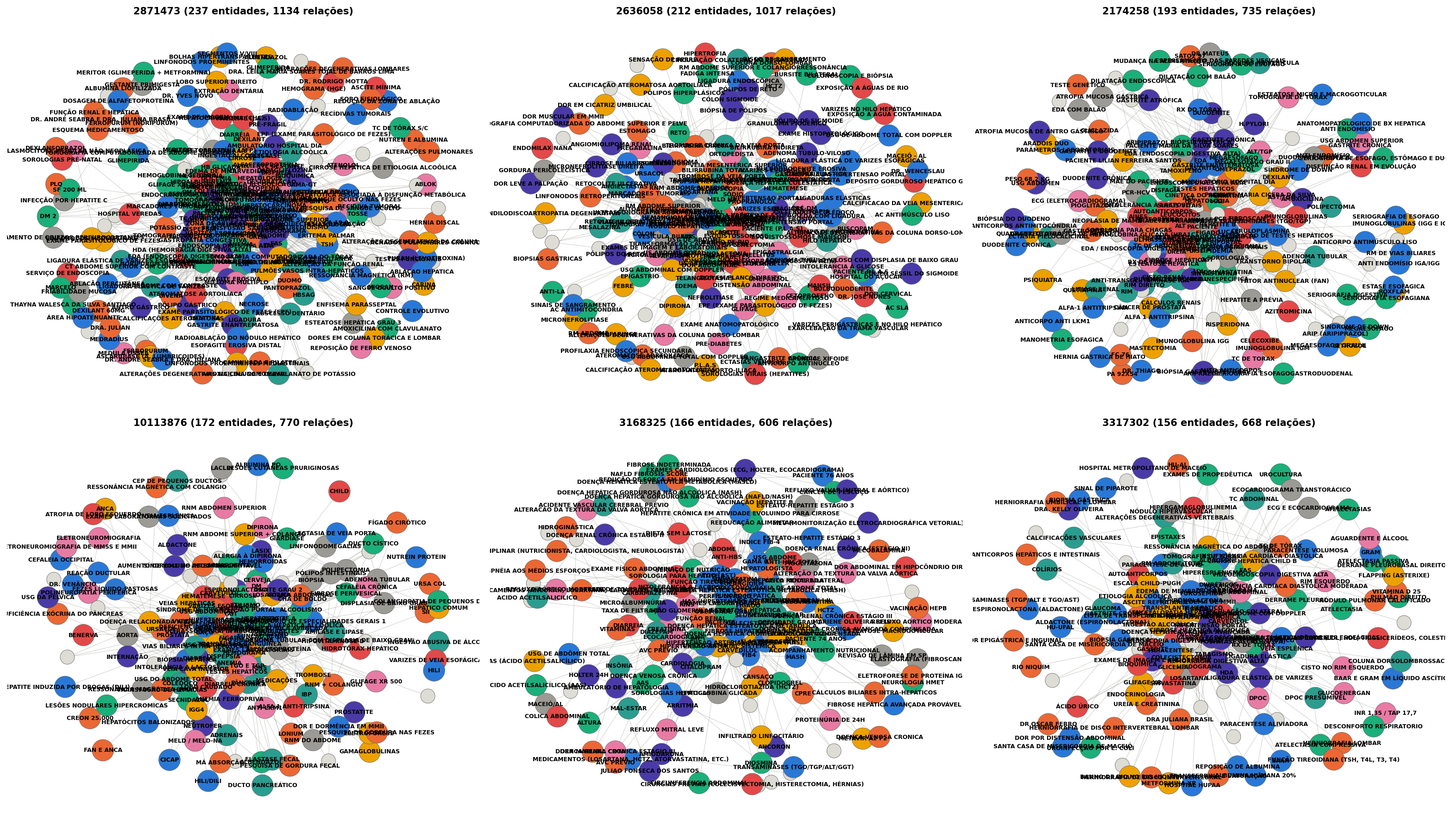
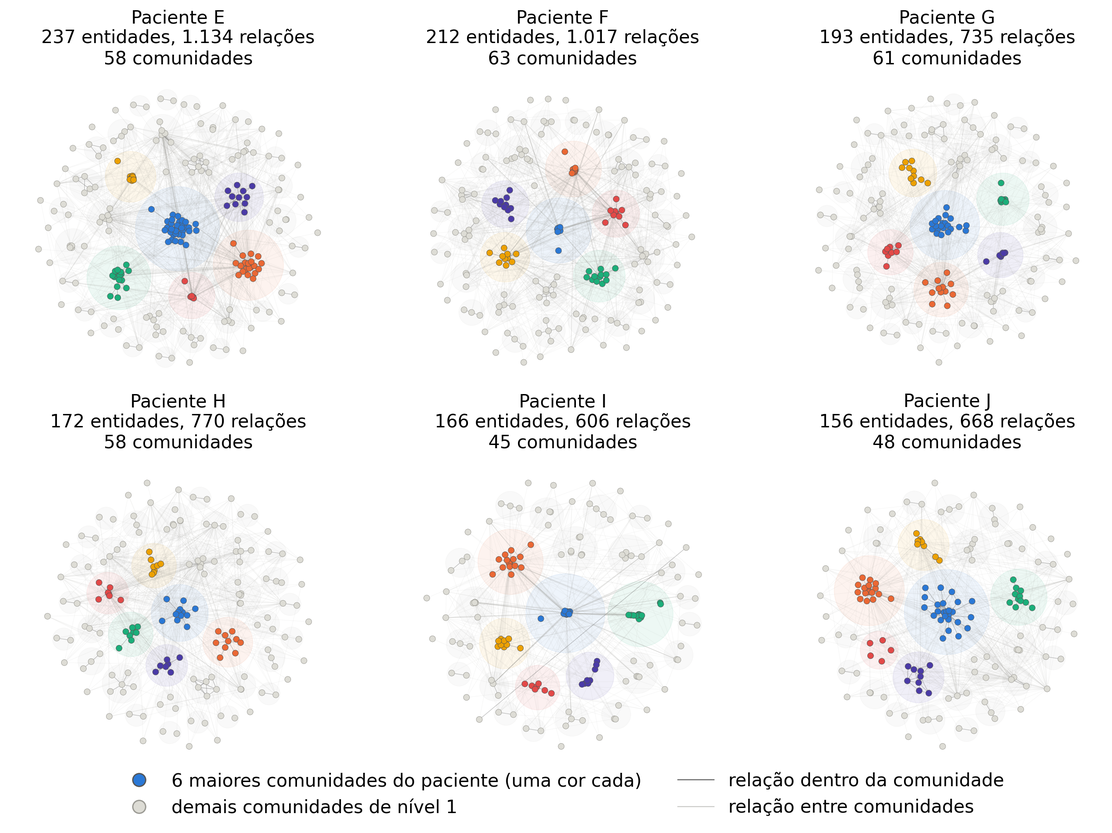
fix(tese): responde revisao dos capitulos 1, 4 e 5
- introducao: aplicacoes dos dados de prontuario logo apos a frase comentada e lacuna do GraphRAG
- secao 4.4.3: restaura e completa as hipoteses das duas investigacoes do drift
- secao 5.2: F1 por doenca nos dois niveis de comunidade
- secao 5.3: enuncia as hipoteses antes de cada tabela
- figura 5.7: redesenhada por comunidade, sem rotulos e com pacientes pseudonimizados (E a J)
- trabalhos futuros: outras formas de agrupamento alem do Leiden topologico

diff --git a/tesis/Cap05/Capitulo5.tex b/tesis/Cap05/Capitulo5.tex
@@ -68,12 +68,15 @@ O padrão mais relevante da Tabela~\ref{tab:res-metricas-gerais} é a assimetria
 
 \section{Desempenho por doença}\label{sec:res-por-doenca}
 
-A Figura~\ref{fig:res-f1-doenca} compara o F1 por doença entre S1 (\textit{basic}, referência sem uso estruturado do grafo), S3 (\textit{local}) e S7 (\textit{drift}), os três sistemas de nível 1. O padrão confirma, com ressalvas, a distinção entre doenças de marcador binário claro e doenças de inferência indireta. Em cirrose hepática e hipertensão portal -- doenças que dependem de inferência a partir de múltiplos achados dispersos no texto --, o ganho do \textit{drift} sobre o \textit{basic} é grande: 18,1 e 19,7 pontos de F1, respectivamente. Em esteatose hepática e hepatite C, cujo texto costuma registrar um exame ou laudo objetivo, o ganho é menor, por efeito-teto (o \textit{basic} já desempenha bem nessas classes): 5,4 e 9,0 pontos. Dois casos escapam ao padrão simples. A esquistossomose, apesar de também depender de inferência indireta, tem ganho modesto (5,0 pontos), semelhante ao das doenças de marcador direto. Já a hepatite B é o único caso em que o \textit{drift} não supera o \textit{basic}: o F1 é ligeiramente menor (0,851 contra 0,864), uma diferença pequena, mas que contraria a expectativa de ganho uniforme do \textit{drift} sobre doenças com marcador objetivo. A hemorragia digestiva alta (HDA) permanece a exceção mais clara ao padrão geral: apesar de o termo literal estar presente na maior parte dos prontuários positivos, o \textit{drift} (F1 = 0,457) não supera o \textit{local} (F1 = 0,485) nessa classe, consistente com o mecanismo de confusão anatômica investigado e estatisticamente confirmado na Seção~\ref{sec:res-investigacao-erro}.
+A Figura~\ref{fig:res-f1-doenca} compara o F1 por doença entre os modos \textit{basic} (referência sem uso estruturado do grafo), \textit{local} e \textit{drift} nos dois níveis de comunidade avaliados: S1, S3 e S7, no nível 1 (painel a), e S2, S4 e S8, no nível 2 (painel b). O padrão confirma, com ressalvas, a distinção entre doenças de marcador binário claro e doenças de inferência indireta. Em cirrose hepática e hipertensão portal, doenças que dependem de inferência a partir de múltiplos achados dispersos no texto, o ganho do \textit{drift} sobre o \textit{basic} é o maior nos dois níveis: 18,1 e 19,7 pontos de F1 no nível 1, e 23,1 e 22,1 pontos no nível 2. Em esteatose hepática e hepatite C, cujo texto costuma registrar um exame ou laudo objetivo, o ganho é menor, por efeito-teto (o \textit{basic} já desempenha bem nessas classes): 5,4 e 9,0 pontos no nível 1, e 9,6 e 12,7 no nível 2. A esquistossomose, apesar de também depender de inferência indireta, tem ganho modesto nos dois níveis (5,0 e 8,6 pontos), semelhante ao das doenças de marcador direto.
+
+As duas exceções observadas no nível 1 não se repetem no nível 2. Na hepatite B, o \textit{drift} fica ligeiramente abaixo do \textit{basic} no nível 1 (0,851 contra 0,864), mas o supera no nível 2 (0,927 contra 0,857). Na hemorragia digestiva alta (HDA), o \textit{drift} não supera o \textit{local} no nível 1 (0,457 contra 0,485) e, no nível 2, é o melhor dos três modos, mas com F1 ainda baixo (0,486). Em ambos os níveis, a HDA tem o pior desempenho entre as sete doenças avaliáveis, apesar de o termo literal estar presente na maior parte dos prontuários positivos, o que é consistente com o mecanismo de confusão anatômica investigado e estatisticamente confirmado na Seção~\ref{sec:res-investigacao-erro}. No nível 2, portanto, o \textit{drift} obtém o maior F1 em todas as doenças, e a vantagem continua concentrada nas de evidência indireta.
 
 \begin{figure}[!htbp]
 \centering
 % Barra proporcional dentro de cada célula, como no painel de acurácia de
 % OA-RAG (arXiv:2610.36335); setas de ganho/perda (\gain/\loss) do mesmo artigo.
+\resizebox{\textwidth}{!}{%
 \begin{tikzpicture}[x=1cm, y=1cm, font=\footnotesize]
 \def\X{3.95}\def\CW{3.05}\def\GX{0.22}\def\RH{0.44}\def\BH{0.27}
 \foreach \k/\tit/\c in {0/{S1 (\textit{basic})}/modoBasic, 1/{S3 (\textit{local})}/modoLocal, 2/{S7 (\textit{drift})}/modoDrift}{
@@ -102,8 +105,42 @@ A Figura~\ref{fig:res-f1-doenca} compara o F1 por doença entre S1 (\textit{basi
   \node[anchor=west, inner sep=0pt, font=\scriptsize] at ({\X+3*(\CW+\GX)+0.10},\y) {\delta};
 }
 \draw[black!45, line width=0.4pt] (-0.15,{-0.08-7*\RH}) -- ({\X+3*(\CW+\GX)+1.45},{-0.08-7*\RH});
-\end{tikzpicture}
-\caption[F1 por doença, três sistemas de nível 1]{F1 por doença nos sistemas de nível 1; $\Delta$ é a diferença, em pontos de F1, entre S7 (\textit{drift}) e S1 (\textit{basic}).}
+\end{tikzpicture}}\\[2pt]
+{\footnotesize (a) Nível 1}
+\\[8pt]
+\resizebox{\textwidth}{!}{%
+\begin{tikzpicture}[x=1cm, y=1cm, font=\footnotesize]
+\def\X{3.95}\def\CW{3.05}\def\GX{0.22}\def\RH{0.44}\def\BH{0.27}
+\foreach \k/\tit/\c in {0/{S2 (\textit{basic})}/modoBasic, 1/{S4 (\textit{local})}/modoLocal, 2/{S8 (\textit{drift})}/modoDrift}{
+  \node[font=\footnotesize\bfseries, anchor=base, inner sep=1pt] at ({\X+\k*(\CW+\GX)+\CW/2},0.08) {\chip{\c}\tit};
+}
+\node[font=\footnotesize\bfseries, anchor=base, inner sep=1pt] at ({\X+3*(\CW+\GX)+0.62},0.08) {$\Delta$};
+\draw[black!45, line width=0.4pt] (-0.15,-0.08) -- ({\X+3*(\CW+\GX)+1.45},-0.08);
+\foreach \i/\nome/\a/\b/\d/\best/\delta in {
+    1/Cirrose hepática/0.571/0.626/0.802/2/{\gain{23,1}},
+    2/Esquistossomose/0.679/0.702/0.765/2/{\gain{8,6}},
+    3/Hepatite C/0.740/0.806/0.867/2/{\gain{12,7}},
+    4/Hepatite B/0.857/0.874/0.927/2/{\gain{7,0}},
+    5/Esteatose hepática/0.854/0.872/0.950/2/{\gain{9,6}},
+    6/Hipertensão portal/0.702/0.679/0.923/2/{\gain{22,1}},
+    7/{Hemorragia digestiva alta}/0.444/0.386/0.486/2/{\gain{4,2}}}{
+  \pgfmathsetmacro{\y}{-0.08-\i*\RH+\RH/2}
+  \node[anchor=east, inner sep=0pt] at ({\X-0.10},\y) {\nome};
+  \foreach \k/\v/\c in {0/\a/modoBasic, 1/\b/modoLocal, 2/\d/modoDrift}{
+    \pgfmathsetmacro{\x}{\X+\k*(\CW+\GX)}
+    \fill[black!5] (\x,{\y+\BH/2}) rectangle ({\x+\CW},{\y-\BH/2});
+    \path[fill=\c, draw=white, line width=0.45pt] (\x,{\y+\BH/2}) rectangle ({\x+\CW*\v},{\y-\BH/2});
+    \ifnum\k=\best\draw[black!75, line width=0.7pt] (\x,{\y+\BH/2}) rectangle ({\x+\CW*\v},{\y-\BH/2});\fi
+    \node[anchor=east, inner sep=2pt, text=white, font=\scriptsize] at ({\x+\CW*\v},\y)
+      {\ifnum\k=\best\bfseries\fi\pgfmathprintnumber[fixed, precision=3, fixed zerofill, use comma]{\v}};
+  }
+  \node[anchor=west, inner sep=0pt, font=\scriptsize] at ({\X+3*(\CW+\GX)+0.10},\y) {\delta};
+}
+\draw[black!45, line width=0.4pt] (-0.15,{-0.08-7*\RH}) -- ({\X+3*(\CW+\GX)+1.45},{-0.08-7*\RH});
+\end{tikzpicture}}\\[2pt]
+{\footnotesize (b) Nível 2}
+
+\caption[F1 por doença, por modo de busca e nível de comunidade]{F1 por doença nos níveis de comunidade 1 (a) e 2 (b); $\Delta$ é a diferença, em pontos de F1, entre o \textit{drift} e o \textit{basic} do mesmo nível.}
 \label{fig:res-f1-doenca}
 \par\smallskip{\footnotesize Fonte: elaborado pelo autor a partir de \texttt{metricas\_parcial\_sem\_global.csv}.}
 \end{figure}
@@ -128,11 +165,11 @@ As matrizes de confusão por doença (Figuras~\ref{fig:res-confusao-s7} e~\ref{f
 
 \section{Investigação do comportamento do modo \textit{drift}}\label{sec:res-investigacao}
 
-Esta seção relata o resultado de duas investigações dirigidas ao modo \textit{drift}, conduzidas \textit{a posteriori} sobre pares formados por prontuário e doença, com hipóteses comparadas pelo teste U de Mann-Whitney \citep{mann_whitney1947}, para variáveis quantitativas, e pelo teste qui-quadrado de Pearson \citep{pearson1900}, para proporções: por que o \textit{drift} acerta em casos que \textit{basic}/\textit{local} erram (Seção~\ref{sec:res-investigacao-acerto}) e por que o \textit{drift} erra em casos que \textit{basic}/\textit{local} acertam (Seção~\ref{sec:res-investigacao-erro}).
+Esta seção relata o resultado de duas investigações dirigidas ao modo \textit{drift}, conduzidas \textit{a posteriori} sobre pares formados por prontuário e doença, com as hipóteses, os grupos e os testes descritos na Seção~\ref{sec:met-hipoteses}: por que o \textit{drift} acerta em casos que \textit{basic}/\textit{local} erram (Seção~\ref{sec:res-investigacao-acerto}) e por que o \textit{drift} erra em casos que \textit{basic}/\textit{local} acertam (Seção~\ref{sec:res-investigacao-erro}).
 
 \subsection{Por que o \textit{drift} acerta onde os demais erram}\label{sec:res-investigacao-acerto}
 
-O grupo A reúne 206 pares paciente/doença em que ao menos um dos sistemas \textit{drift} (S7 ou S8) identifica corretamente uma doença presente e mais da metade dos sistemas \textit{basic}/\textit{local} (S1 a S4) não a identifica; o grupo B, de 593 pares, funciona como controle. A Tabela~\ref{tab:res-h1-h4-acerto} resume os quatro testes.
+O grupo A reúne 206 pares paciente/doença em que ao menos um dos sistemas \textit{drift} (S7 ou S8) identifica corretamente uma doença presente e mais da metade dos sistemas \textit{basic}/\textit{local} (S1 a S4) não a identifica; o grupo B, de 593 pares, reúne os demais casos com doença presente e funciona como controle. As quatro hipóteses testadas são que os prontuários do grupo A são mais longos (H1), mencionam menos o termo literal da doença (H2), registram mais atendimentos (H3) e têm com mais frequência a entidade canônica da doença ausente do índice (H4). A Tabela~\ref{tab:res-h1-h4-acerto} resume os quatro testes.
 
 \begin{table}[!htbp]
 \centering
@@ -155,7 +192,7 @@ Os prontuários do grupo A são significativamente mais longos (H1) e mencionam 
 
 \subsection{Por que o \textit{drift} erra onde os demais acertam}\label{sec:res-investigacao-erro}
 
-O grupo A desta investigação reúne 291 pares paciente/doença em que a doença está ausente segundo o rótulo de referência, ao menos um dos sistemas \textit{drift} (S7 ou S8) prediz presença (falso positivo) e mais da metade dos sistemas \textit{basic}/\textit{local} (S1 a S4) acerta a ausência; o grupo B, de 3.144 pares, é o controle (doença ausente e \textit{drift} também acerta). A Tabela~\ref{tab:res-h1-h4-erro} resume os testes.
+O grupo A desta investigação reúne 291 pares paciente/doença em que a doença está ausente segundo o rótulo de referência, ao menos um dos sistemas \textit{drift} (S7 ou S8) prediz presença (falso positivo) e mais da metade dos sistemas \textit{basic}/\textit{local} (S1 a S4) acerta a ausência; o grupo B, de 3.144 pares, é o controle (doença ausente e \textit{drift} também acerta). As quatro hipóteses testadas são que o \textit{drift} justifica o falso positivo com linguagem de risco ou de hipótese (H1), que os prontuários do grupo A são mais longos (H2), que os falsos positivos de HDA contêm mais termos de sangramento digestivo baixo (H3) e que a evidência citada pelo \textit{drift} não aparece literalmente no texto do paciente (H4). A Tabela~\ref{tab:res-h1-h4-erro} resume os testes.
 
 \begin{table}[!htbp]
 \centering
@@ -188,7 +225,7 @@ A Figura~\ref{fig:res-acerto-erro-tamanho} ilustra esse padrão sobre todos os p
 
 A hipótese H3, específica de HDA, é a única das duas investigações a isolar estatisticamente o mecanismo da terceira categoria de doença discutida na Seção~\ref{sec:res-por-doenca}: termos de sangramento baixo (hemorroida, fissura anal, hematoquezia) aparecem em quase o triplo da proporção dos falsos positivos de HDA em comparação ao controle (8,7\% contra 2,8\%, $p=0,040$). Isso confirma estatisticamente, pela primeira vez, a hipótese qualitativa de confusão anatômica entre sangramento alto e baixo levantada durante a análise de erros (Seção~\ref{sec:met-qualitativa}) e que fundamentou o bloco do \textit{prompt} de extração dedicado a essa distinção (Seção~\ref{sec:met-prompt}).
 
-As hipóteses H1 e H4 têm suporte qualitativo, mas proporção abaixo do limiar adotado para considerá-las confirmadas (13,4\% e 13,8\%, respectivamente). Ainda assim, os casos individuais que as motivaram permanecem informativos: no paciente B, por exemplo, o texto afirma explicitamente ``hipertensão portal não cirrótica'', e o \textit{drift} lista cirrose mesmo com a negação textual explícita; no paciente C, o sistema confunde o diagnóstico de um familiar (tio com cirrose, mencionado no histórico familiar) com o do próprio paciente, e também confunde ``varizes em membros inferiores'' (varizes de perna) com varizes esofágicas, pela recorrência da palavra ``varizes'' fora do território anatômico correto.
+As hipóteses H1 e H4 têm suporte qualitativo, mas proporção abaixo do limiar de 15\% adotado para considerá-las confirmadas (13,4\% e 13,8\%, respectivamente; Seção~\ref{sec:met-hipoteses}). Ainda assim, os casos individuais que as motivaram permanecem informativos: no paciente B, por exemplo, o texto afirma explicitamente ``hipertensão portal não cirrótica'', e o \textit{drift} lista cirrose mesmo com a negação textual explícita; no paciente C, o sistema confunde o diagnóstico de um familiar (tio com cirrose, mencionado no histórico familiar) com o do próprio paciente, e também confunde ``varizes em membros inferiores'' (varizes de perna) com varizes esofágicas, pela recorrência da palavra ``varizes'' fora do território anatômico correto.
 
 O Quadro~\ref{quadro:negacao-ignorada} reproduz o trecho relevante do paciente B lado a lado com a resposta do \textit{drift}, e o Quadro~\ref{quadro:alucinacao} faz o mesmo para um caso de hepatite B (paciente D, Seção~\ref{sec:res-panorama}) em que o sistema cita um resultado de exame que não existe em nenhuma parte do texto do prontuário.
 
@@ -206,7 +243,7 @@ O Quadro~\ref{quadro:negacao-ignorada} reproduz o trecho relevante do paciente B
 
 \section{Análise qualitativa do grafo de conhecimento}\label{sec:res-grafos}
 
-Para ilustrar o mecanismo topológico por trás de parte dos erros do \textit{drift}, a Figura~\ref{fig:res-subgrafo-paciente-a} mostra o subgrafo do paciente A, destacando as comunidades de nível 1 às quais suas entidades pertencem. O caso evidencia que entidades do mesmo paciente podem ser alocadas em comunidades distintas quando o agrupamento de Leiden é puramente topológico (Seção~\ref{sec:met-grafo}): uma entidade sinônima da doença-alvo, criada a partir de uma menção textual diferente da forma canônica, pode cair em uma comunidade diferente daquela que contém a entidade canônica correspondente, mesmo referindo-se ao mesmo paciente e à mesma condição clínica.
+Para ilustrar o mecanismo topológico por trás de parte dos erros do \textit{drift}, a Figura~\ref{fig:res-subgrafo-paciente-a} mostra o subgrafo do paciente A, destacando as comunidades de nível 1 às quais suas entidades pertencem. O caso evidencia que entidades do mesmo paciente podem ser alocadas em comunidades distintas quando o agrupamento de Leiden é puramente topológico (Seção~\ref{sec:met-grafo}): uma entidade sinônima da doença-alvo, criada a partir de uma menção textual diferente da forma canônica, pode cair em uma comunidade diferente daquela que contém a entidade canônica correspondente, mesmo referindo-se ao mesmo paciente e à mesma condição clínica. Formas de agrupamento que considerem também o conteúdo semântico das entidades ou a sua pertença a um paciente, propostas como trabalho futuro na Seção~\ref{sec:conc-futuros}, poderiam reduzir essa dispersão.
 
 \begin{figure}[!htbp]
 \centering
@@ -216,14 +253,14 @@ Para ilustrar o mecanismo topológico por trás de parte dos erros do \textit{dr
 \par\smallskip{\footnotesize Fonte: elaborado pelo autor, com leiaute calculado pela biblioteca NetworkX.}
 \end{figure}
 
-A Figura~\ref{fig:res-maiores-grafos} generaliza a observação, comparando os seis maiores subgrafos entre os 537 prontuários da amostra, e a Figura~\ref{fig:res-estrutura-agregada} resume estatisticamente a estrutura dos subgrafos de todos os pacientes com dado disponível no índice (536 de 537). O número de entidades e o número de relações por prontuário são fortemente correlacionados ($r=0,959$), com mediana de 38 entidades e 81 relações por paciente, e cada paciente tem suas entidades distribuídas, em média, por comunidades que correspondem a 55\% do número de entidades -- ou seja, a fragmentação entre comunidades observada no caso do paciente A não é um evento isolado, mas uma característica estrutural recorrente do índice. Os resumos das dez comunidades de nível 1 com maior número de relações, que ilustram o conteúdo efetivamente consultado pelos modos \textit{global} e \textit{drift}, são reproduzidos no Apêndice~\ref{ap:comunidades}.
+A Figura~\ref{fig:res-maiores-grafos} generaliza a observação, comparando os seis maiores subgrafos entre os 537 prontuários da amostra, nos quais as entidades de um mesmo paciente se distribuem por 45 a 63 comunidades distintas, e a Figura~\ref{fig:res-estrutura-agregada} resume estatisticamente a estrutura dos subgrafos de todos os pacientes com dado disponível no índice (536 de 537). O número de entidades e o número de relações por prontuário são fortemente correlacionados ($r=0,959$), com mediana de 38 entidades e 81 relações por paciente, e cada paciente tem suas entidades distribuídas, em média, por comunidades que correspondem a 55\% do número de entidades -- ou seja, a fragmentação entre comunidades observada no caso do paciente A não é um evento isolado, mas uma característica estrutural recorrente do índice. Os resumos das dez comunidades de nível 1 com maior número de relações, que ilustram o conteúdo efetivamente consultado pelos modos \textit{global} e \textit{drift}, são reproduzidos no Apêndice~\ref{ap:comunidades}.
 
 A literatura recente aponta duas causas convergentes para esse quadro, uma em cada etapa da indexação. Na extração, \citet{ye2026} observaram que \textit{prompts} genéricos aplicados a prontuários multiplicam as entidades, ao tratar cada parâmetro laboratorial como entidade independente, e mitigaram o problema exigindo uma única entidade de paciente por registro, à qual se vinculam diagnósticos, medicamentos e exames, princípio que atacaria diretamente a dispersão observada aqui. No agrupamento, \citet{hossain2026} demonstram que, em grafos de conhecimento esparsos, a partição de Leiden não é reprodutível e tende a produzir comunidades de tamanho muito desigual, como as da Tabela~\ref{tab:met-niveis}. Como os resumos de comunidade são o material percorrido pelos modos \textit{global} e \textit{drift}, a granularidade do grafo, definida já na extração de entidades, condiciona diretamente as comunidades formadas pelo Leiden e, por consequência, o contexto disponível a esses modos de busca.
 
 \begin{figure}[!htbp]
 \centering
 \includegraphics[width=\textwidth]{Cap05/figuras/comparacao_maiores_grafos.png}
-\caption[Comparação dos seis maiores subgrafos da amostra]{Comparação dos seis maiores subgrafos (por número de entidades) entre os 537 prontuários da amostra.}
+\caption[Comparação dos seis maiores subgrafos da amostra]{Os seis maiores subgrafos da amostra, em número de entidades (pacientes E a J), com as entidades agrupadas por comunidade de nível 1; as seis maiores comunidades de cada paciente aparecem em cores, e as demais, em cinza.}
 \label{fig:res-maiores-grafos}
 \par\smallskip{\footnotesize Fonte: elaborado pelo autor com as bibliotecas NetworkX e matplotlib.}
 \end{figure}

diff --git a/tesis/Cap04/Capitulo4.tex b/tesis/Cap04/Capitulo4.tex
@@ -178,7 +178,7 @@ A execução local exigiu ajustes na estratégia de paralelização das consulta
 
 \section{Avaliação}\label{sec:met-avaliacao}
 
-A resposta de cada consulta foi convertida em um conjunto de doenças previstas e comparada aos rótulos de referência, etapa representada no painel 4 da Figura~\ref{fig:met-visao-geral}. Esta seção descreve a extração da resposta, as métricas de classificação e a análise qualitativa de erros e do grafo.
+A resposta de cada consulta foi convertida em um conjunto de doenças previstas e comparada aos rótulos de referência, etapa representada no painel 4 da Figura~\ref{fig:met-visao-geral}. Esta seção descreve a extração da resposta, as métricas de classificação, as hipóteses formuladas sobre o modo \textit{drift} e a análise qualitativa de erros e do grafo.
 
 \subsection{Extração da Resposta}\label{sec:met-parser}
 
@@ -213,6 +213,28 @@ A acurácia por rótulo, definida na Equação~\eqref{eq:ar}, considera cada com
 \mathrm{AR} = \frac{1}{N\,|C|}\sum_{i=1}^{N}\sum_{c \in C} \mathbf{1}\left[\hat{y}_{ic} = y_{ic}\right]
 \label{eq:ar}
 \end{equation}
+\subsection{Hipóteses sobre o Modo \texorpdfstring{\textit{Drift}}{Drift}}\label{sec:met-hipoteses}
+
+A comparação entre os sistemas revelou um padrão sistemático no comportamento do modo \textit{drift}, relatado no Capítulo~\ref{cap:resultados}, que motivou duas investigações dedicadas ao mecanismo subjacente. Trata-se de análises conduzidas \textit{a posteriori}, sobre pares formados por prontuário e doença, cujo desenho se descreve aqui. Em ambas, considera-se que o \textit{drift} acerta, ou erra, quando ao menos um dos sistemas S7 e S8 o faz, e que a maioria dos demais acerta, ou erra, quando mais da metade dos sistemas S1 a S4 o faz.
+
+A primeira investigação examina por que o \textit{drift} acerta onde os demais erram. O grupo A reúne os pares com doença presente nos rótulos de referência em que o \textit{drift} a identifica e a maioria dos sistemas \textit{basic} e \textit{local} não a identifica; o grupo B reúne os demais pares com doença presente e funciona como controle. Foram formuladas quatro hipóteses:
+\begin{description}
+    \item[H1:] os prontuários do grupo A são mais longos, em número de caracteres, que os do grupo B;
+    \item[H2:] o termo literal da doença aparece em menor proporção no texto dos prontuários do grupo A, indicando evidência mais indireta;
+    \item[H3:] os prontuários do grupo A registram mais atendimentos, de modo que a informação relevante fica mais diluída no histórico;
+    \item[H4:] a entidade canônica da doença deixou de ser extraída na indexação, para o paciente correspondente, em maior proporção no grupo A.
+\end{description}
+
+A segunda investigação examina o caso inverso: por que o \textit{drift} erra onde os demais acertam. O grupo A reúne os pares com doença ausente nos rótulos de referência em que o \textit{drift} prediz presença (falso positivo) e a maioria dos sistemas \textit{basic} e \textit{local} acerta a ausência; o grupo B reúne os pares com doença ausente em que o \textit{drift} também acerta. Foram formuladas outras quatro hipóteses:
+\begin{description}
+    \item[H1:] nos falsos positivos do grupo A, o \textit{drift} justifica a doença com linguagem de risco ou de hipótese, como ``risco'', ``possível'' e ``sugestivo'', e não com um achado confirmado;
+    \item[H2:] os prontuários do grupo A são mais longos, em número de caracteres, que os do grupo B;
+    \item[H3:] nos falsos positivos de HDA, termos de sangramento digestivo baixo, como ``hemorroida'', ``fissura anal'' e ``hematoquezia'', aparecem em maior proporção que no grupo B;
+    \item[H4:] o trecho que o \textit{drift} cita como evidência da doença não aparece literalmente no texto do próprio paciente, indício de alucinação ou de contaminação por informação de outros prontuários.
+\end{description}
+
+A escolha dos testes segue a natureza de cada variável. Comprimento do texto e número de atendimentos são variáveis quantitativas sem pressuposto de normalidade, comparadas entre os grupos pelo teste U de Mann-Whitney \citep{mann_whitney1947}, não paramétrico; a presença do termo literal, a ausência da entidade canônica e a presença de termos de sangramento baixo são variáveis binárias, comparadas pelo teste qui-quadrado de Pearson \citep{pearson1900}. Os testes foram implementados com a biblioteca SciPy, com nível de significância de 5\%. As hipóteses H1 e H4 da segunda investigação não têm grupo de comparação, pois no grupo B o \textit{drift} não menciona a doença; foram avaliadas pela proporção de casos do grupo A que apresentam o padrão, considerando-se relevante uma proporção superior a 15\%. A hipótese H4 da primeira investigação originou-se da análise do subgrafo de um paciente específico, descrita na seção seguinte, e foi submetida ao teste para verificar se o mecanismo observado nesse caso se generaliza para a amostra.
+
 \subsection{Análise Qualitativa de Erros e do Grafo}\label{sec:met-qualitativa}
 
 Como apoio à investigação qualitativa dos erros, foram gerados subgrafos de entidades e relações por paciente, desenhados com as bibliotecas NetworkX e matplotlib em leiaute de força dirigida e coloridos por comunidade.

diff --git a/tesis/Cap01/Capitulo1.tex b/tesis/Cap01/Capitulo1.tex
@@ -18,7 +18,7 @@ O diagnóstico e acompanhamento de pacientes hepatopatas dependem fortemente de 
 
 O Processamento de Linguagem Natural (PLN) tem sido amplamente explorado para extração de informações médicas. Revisões recentes apontam avanços significativos no uso de PLN em gastroenterologia e hepatologia, incluindo técnicas baseadas em grandes modelos de linguagem (LLMs), mas ainda existem desafios relacionados a abreviações, terminologia especializada e evolução temporal dos prontuários \citep{stammers2025,shahab2024}. Ferramentas como ChatGPT têm mostrado potencial para auxiliar na síntese de informações médicas, embora com limitações quanto a precisão e vieses \citep{dave2023}, e LLMs conversacionais passaram a ser avaliados como ferramentas automatizadas de apoio à decisão clínica, como na interpretação de biomarcadores complexos em oncologia de precisão, tarefa que hoje exige a consulta manual a estudos e bases de dados prévios \citep{benary2023}.
 
-Nos últimos anos, técnicas de Retrieval-Augmented Generation (RAG)\citep{gao2024} têm sido aplicadas para integrar extração de conhecimento e recuperação de informações em bases especializadas. Entre essas, o GraphRAG combina LLMs com estruturas de grafos, permitindo modelar hierarquias e relações complexas entre entidades clínicas, o que facilita a análise ao longo do tempo e a geração de resumos contextualizados \citep{edge2024,xiang2025}. Estudos recentes destacam que a eficácia do GraphRAG depende do tipo de tarefa, da qualidade do grafo e da estratégia de construção de comunidades, sendo crucial avaliar seu desempenho em cenários clínicos \citep{xiang2025}. Apesar dos avanços no uso de técnicas de  PLN para a extração de informações médicas em prontuários eletrônicos, a análise longitudinal da evolução clínica de pacientes hepatopatas ainda apresenta desafios significativos.
+Nos últimos anos, técnicas de Retrieval-Augmented Generation (RAG)\citep{gao2024} têm sido aplicadas para integrar extração de conhecimento e recuperação de informações em bases especializadas. Entre essas, o GraphRAG combina LLMs com estruturas de grafos, permitindo modelar hierarquias e relações complexas entre entidades clínicas, o que facilita a análise ao longo do tempo e a geração de resumos contextualizados \citep{edge2024,xiang2025}. Estudos recentes destacam que a eficácia do GraphRAG depende do tipo de tarefa, da qualidade do grafo e da estratégia de construção de comunidades, sendo crucial avaliar seu desempenho em cenários clínicos \citep{xiang2025}. Apesar dos avanços no uso de técnicas de PLN para a extração de informações médicas em prontuários eletrônicos, a análise longitudinal da evolução clínica de pacientes hepatopatas ainda apresenta desafios significativos. No caso do GraphRAG, a lacuna é maior: as aplicações em saúde encontradas na literatura empregam prontuários sintéticos \citep{baptista2025}, perguntas e respostas sobre conhecimento médico \citep{wu2025,wang2026} ou a predição de desfechos clínicos \citep{kare2025}. Até onde a revisão apresentada no Capítulo~\ref{cap:relacionados} permite afirmar, o GraphRAG ainda não foi avaliado na identificação de doenças documentadas em prontuários reais escritos em português brasileiro, nem foram comparados sistematicamente, nesse tipo de tarefa, seus modos de busca e níveis de comunidade.
 
 \section{Objetivo Geral}
 

diff --git a/tesis/Conc/Conclusao.tex b/tesis/Conc/Conclusao.tex
@@ -35,6 +35,7 @@ A partir dos resultados e das limitações identificadas, propõem-se as seguint
     \item avaliar os sistemas do modo \textit{global} (S5 e S6) com um modelo ou uma configuração que não incorra no volume excessivo de chamadas observado na seleção dinâmica de comunidades, de modo a completar a comparação entre os quatro modos de busca do GraphRAG;
     \item investigar correções específicas para os falsos positivos de hepatite B e hepatite C descritos na Seção~\ref{sec:res-investigacao-erro}, como regras explícitas de distinção entre marcadores de imunidade vacinal e de infecção ativa, e de tratamento de doença resolvida após terapia antiviral;
     \item avaliar \textit{prompts} de indexação com regras explícitas de granularidade, como a exigência de uma única entidade de paciente por registro proposta por \citet{ye2026}, e alternativas determinísticas ao algoritmo de Leiden, como a decomposição em $k$-núcleos \citep{hossain2026}, quanto ao efeito sobre a fragmentação das comunidades e sobre o desempenho dos modos de busca;
+    \item explorar formas de agrupamento que não dependam apenas da topologia do grafo, para reduzir a dispersão, entre comunidades, das entidades de um mesmo paciente e dos sinônimos de uma mesma doença (Seção~\ref{sec:res-grafos}): o agrupamento por atributos, que combina a estrutura do grafo com a similaridade semântica das descrições das entidades, como nas comunidades atribuídas do ArchRAG \citep{wang2026archrag}; a normalização das entidades para um vocabulário clínico controlado antes da detecção de comunidades, que fundiria sinônimos em um único nó, na linha do uso de ontologias para estruturar o grafo proposto por \citet{wang2026}; e o agrupamento centrado no paciente, em que cada prontuário define a própria comunidade e os resumos são gerados por paciente, e não por tema;
     \item estender a avaliação a um segundo anotador humano, de modo a medir a concordância entre anotadores e fortalecer a confiabilidade do \textit{ground truth} para além da anotação única adotada neste trabalho;
     \item replicar o desenho experimental sobre um corpus de outra instituição ou especialidade clínica, para avaliar em que medida os padrões de acerto e erro aqui identificados são específicos deste ambulatório ou generalizáveis a outros contextos de texto clínico em português.
 \end{itemize}
